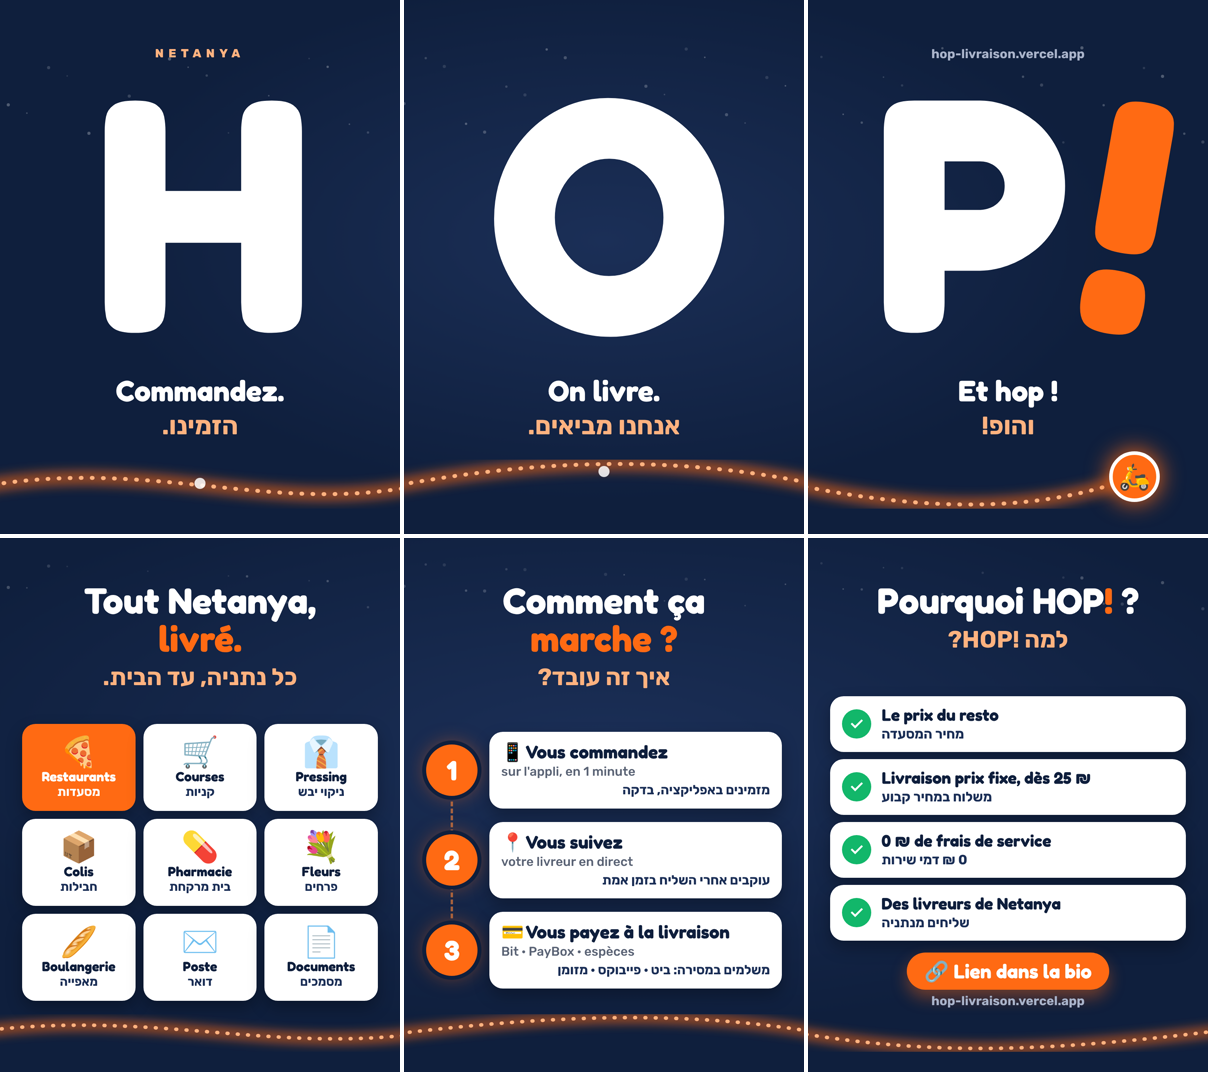
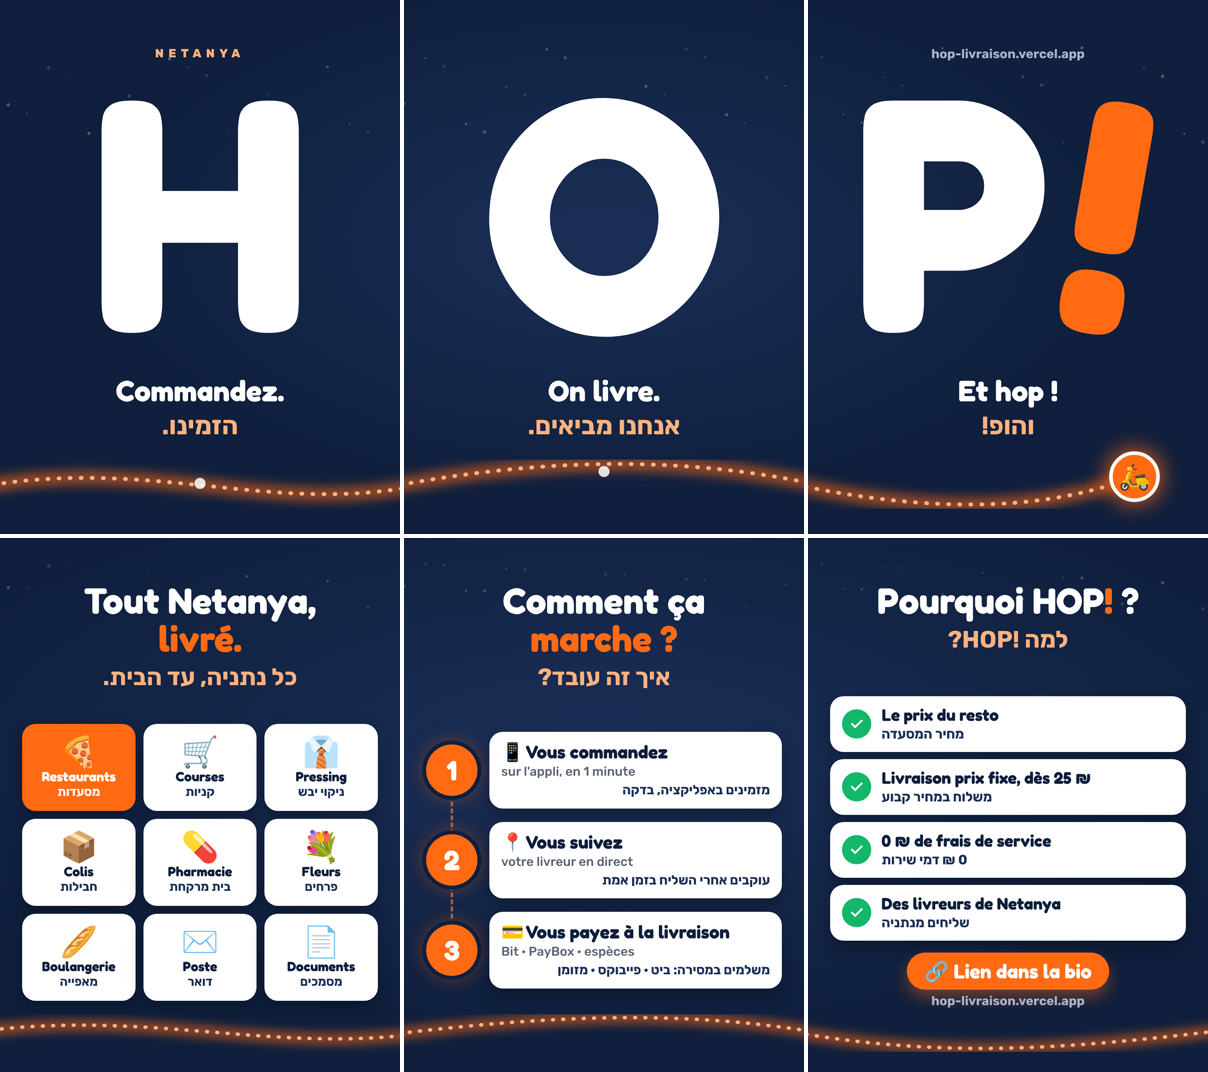
Grille Instagram : H, O et P! exactement centrés dans leur publication
Claude-Session: https://claude.ai/code/session_01HjyNE8jb2CVL8HhFoocmFa

diff --git a/livraison/index.html b/livraison/index.html
@@ -68,7 +68,7 @@
       } catch (e) { /* ignore */ }
     })();
   </script>
-  <link rel="stylesheet" href="styles.css?v=202610312223" />
+  <link rel="stylesheet" href="styles.css?v=202610312225" />
 <style id="splashCss">#splash{position:fixed;inset:0;z-index:99999;display:flex;flex-direction:column;align-items:center;justify-content:center;gap:18px;background:#0F1F3D;color:#fff;transition:opacity .35s ease}#splash.out{opacity:0;pointer-events:none}#splash svg{width:min(58vw,300px);height:auto;display:block}#splash span{font:700 16px/1 Rubik,-apple-system,Arial,sans-serif;letter-spacing:.42em;margin-inline-start:.42em;opacity:.92}</style>
 </head>
 <body>
@@ -736,16 +736,16 @@
 </div>
 
 <script src="https://cdnjs.cloudflare.com/ajax/libs/leaflet/1.9.4/leaflet.min.js"></script>
-<script src="config.js?v=202610312223"></script>
-<script src="i18n.js?v=202610312223"></script>
-<script src="pricing.js?v=202610312223"></script>
-<script src="store.js?v=202610312223"></script>
-<script src="chat.js?v=202610312223"></script>
-<script src="common.js?v=202610312223"></script>
-<script src="enseignes.js?v=202610312223"></script>
-<script src="places.js?v=202610312223"></script>
-<script src="rayons.js?v=202610312223"></script>
-<script src="client.js?v=202610312223"></script>
+<script src="config.js?v=202610312225"></script>
+<script src="i18n.js?v=202610312225"></script>
+<script src="pricing.js?v=202610312225"></script>
+<script src="store.js?v=202610312225"></script>
+<script src="chat.js?v=202610312225"></script>
+<script src="common.js?v=202610312225"></script>
+<script src="enseignes.js?v=202610312225"></script>
+<script src="places.js?v=202610312225"></script>
+<script src="rayons.js?v=202610312225"></script>
+<script src="client.js?v=202610312225"></script>
 <script>(function(){var s=document.getElementById("splash");if(!s)return;var t0=Date.now();function off(){var w=Math.max(0,650-(Date.now()-t0));setTimeout(function(){s.classList.add("out");setTimeout(function(){s.remove()},400)},w)}if(document.readyState==="complete")off();else addEventListener("load",off);setTimeout(off,3500)})();</script>
 </body>
 </html>

diff --git a/livraison/coursier.html b/livraison/coursier.html
@@ -54,7 +54,7 @@
     })();
   </script>
   <link rel="stylesheet" href="https://cdnjs.cloudflare.com/ajax/libs/leaflet/1.9.4/leaflet.min.css" />
-  <link rel="stylesheet" href="styles.css?v=202610312223" />
+  <link rel="stylesheet" href="styles.css?v=202610312225" />
 <style id="splashCss">#splash{position:fixed;inset:0;z-index:99999;display:flex;flex-direction:column;align-items:center;justify-content:center;gap:18px;background:#0F1F3D;color:#fff;transition:opacity .35s ease}#splash.out{opacity:0;pointer-events:none}#splash svg{width:min(58vw,300px);height:auto;display:block}#splash span{font:700 16px/1 Rubik,-apple-system,Arial,sans-serif;letter-spacing:.42em;margin-inline-start:.42em;opacity:.92}</style>
 </head>
 <body>
@@ -295,14 +295,14 @@
 
 <script src="https://cdnjs.cloudflare.com/ajax/libs/leaflet/1.9.4/leaflet.min.js"></script>
 <script src="https://cdnjs.cloudflare.com/ajax/libs/qrcodejs/1.0.0/qrcode.min.js"></script>
-<script src="config.js?v=202610312223"></script>
-<script src="i18n.js?v=202610312223"></script>
-<script src="pricing.js?v=202610312223"></script>
-<script src="store.js?v=202610312223"></script>
-<script src="chat.js?v=202610312223"></script>
-<script src="common.js?v=202610312223"></script>
-<script src="badge.js?v=202610312223"></script>
-<script src="coursier.js?v=202610312223"></script>
+<script src="config.js?v=202610312225"></script>
+<script src="i18n.js?v=202610312225"></script>
+<script src="pricing.js?v=202610312225"></script>
+<script src="store.js?v=202610312225"></script>
+<script src="chat.js?v=202610312225"></script>
+<script src="common.js?v=202610312225"></script>
+<script src="badge.js?v=202610312225"></script>
+<script src="coursier.js?v=202610312225"></script>
 <script>(function(){var s=document.getElementById("splash");if(!s)return;var t0=Date.now();function off(){var w=Math.max(0,650-(Date.now()-t0));setTimeout(function(){s.classList.add("out");setTimeout(function(){s.remove()},400)},w)}if(document.readyState==="complete")off();else addEventListener("load",off);setTimeout(off,3500)})();</script>
 </body>
 </html>

diff --git a/livraison/admin.html b/livraison/admin.html
@@ -54,7 +54,7 @@
       window.addEventListener("load", function () { if (first) later(); });
     })();
   </script>
-  <link rel="stylesheet" href="styles.css?v=202610312223" />
+  <link rel="stylesheet" href="styles.css?v=202610312225" />
 <style id="splashCss">#splash{position:fixed;inset:0;z-index:99999;display:flex;flex-direction:column;align-items:center;justify-content:center;gap:18px;background:#0F1F3D;color:#fff;transition:opacity .35s ease}#splash.out{opacity:0;pointer-events:none}#splash svg{width:min(58vw,300px);height:auto;display:block}#splash span{font:700 16px/1 Rubik,-apple-system,Arial,sans-serif;letter-spacing:.42em;margin-inline-start:.42em;opacity:.92}</style>
 </head>
 <body>
@@ -184,15 +184,15 @@
 </div>
 
 <script src="https://cdnjs.cloudflare.com/ajax/libs/leaflet/1.9.4/leaflet.min.js"></script>
-<script src="config.js?v=202610312223"></script>
-<script src="i18n.js?v=202610312223"></script>
-<script src="pricing.js?v=202610312223"></script>
-<script src="store.js?v=202610312223"></script>
-<script src="chat.js?v=202610312223"></script>
-<script src="common.js?v=202610312223"></script>
-<script src="places.js?v=202610312223"></script>
-<script src="rayons.js?v=202610312223"></script>
-<script src="admin.js?v=202610312223"></script>
+<script src="config.js?v=202610312225"></script>
+<script src="i18n.js?v=202610312225"></script>
+<script src="pricing.js?v=202610312225"></script>
+<script src="store.js?v=202610312225"></script>
+<script src="chat.js?v=202610312225"></script>
+<script src="common.js?v=202610312225"></script>
+<script src="places.js?v=202610312225"></script>
+<script src="rayons.js?v=202610312225"></script>
+<script src="admin.js?v=202610312225"></script>
 <script>(function(){var s=document.getElementById("splash");if(!s)return;var t0=Date.now();function off(){var w=Math.max(0,650-(Date.now()-t0));setTimeout(function(){s.classList.add("out");setTimeout(function(){s.remove()},400)},w)}if(document.readyState==="complete")off();else addEventListener("load",off);setTimeout(off,3500)})();</script>
 </body>
 </html>

diff --git a/livraison/commerce.html b/livraison/commerce.html
@@ -48,7 +48,7 @@
       window.addEventListener("load", function () { if (first) later(); });
     })();
   </script>
-  <link rel="stylesheet" href="styles.css?v=202610312223" />
+  <link rel="stylesheet" href="styles.css?v=202610312225" />
 </head>
 <body>
 
@@ -165,13 +165,13 @@
 <button type="button" class="wa-fab chat-fab" id="waFab"><span>💬</span><b data-i18n="chatFab"></b><i class="chat-badge hidden" id="fabBadge"></i></button>
 
 <script src="https://cdnjs.cloudflare.com/ajax/libs/qrcodejs/1.0.0/qrcode.min.js"></script>
-<script src="config.js?v=202610312223"></script>
-<script src="i18n.js?v=202610312223"></script>
-<script src="pricing.js?v=202610312223"></script>
-<script src="store.js?v=202610312223"></script>
-<script src="chat.js?v=202610312223"></script>
-<script src="common.js?v=202610312223"></script>
-<script src="places.js?v=202610312223"></script>
-<script src="commerce.js?v=202610312223"></script>
+<script src="config.js?v=202610312225"></script>
+<script src="i18n.js?v=202610312225"></script>
+<script src="pricing.js?v=202610312225"></script>
+<script src="store.js?v=202610312225"></script>
+<script src="chat.js?v=202610312225"></script>
+<script src="common.js?v=202610312225"></script>
+<script src="places.js?v=202610312225"></script>
+<script src="commerce.js?v=202610312225"></script>
 </body>
 </html>

diff --git a/livraison/bienvenue.html b/livraison/bienvenue.html
@@ -15,7 +15,7 @@
   <link rel="preconnect" href="https://fonts.googleapis.com" />
   <link rel="preconnect" href="https://fonts.gstatic.com" crossorigin />
   <link href="https://fonts.googleapis.com/css2?family=Fredoka:wght@500;600;700&family=Rubik:wght@400;500;600;700;800&display=swap" rel="stylesheet" />
-  <link rel="stylesheet" href="styles.css?v=202610312223" />
+  <link rel="stylesheet" href="styles.css?v=202610312225" />
 </head>
 <body class="bv">
 <!-- Page envoyée à chaque nouveau client après sa première livraison (souvent envoyé par un commerce, il ne connaît pas encore HOP!) -->
@@ -47,11 +47,11 @@
 
 <div class="ol-bar"><a class="btn btn-primary btn-lg" href="index.html" id="bvGo"></a></div>
 
-<script src="config.js?v=202610312223"></script>
-<script src="i18n.js?v=202610312223"></script>
-<script src="pricing.js?v=202610312223"></script>
-<script src="store.js?v=202610312223"></script>
-<script src="common.js?v=202610312223"></script>
+<script src="config.js?v=202610312225"></script>
+<script src="i18n.js?v=202610312225"></script>
+<script src="pricing.js?v=202610312225"></script>
+<script src="store.js?v=202610312225"></script>
+<script src="common.js?v=202610312225"></script>
 <script>
 (function () {
   "use strict";

diff --git a/livraison/badge.html b/livraison/badge.html
@@ -10,7 +10,7 @@
   <link rel="preconnect" href="https://fonts.googleapis.com" />
   <link rel="preconnect" href="https://fonts.gstatic.com" crossorigin />
   <link href="https://fonts.googleapis.com/css2?family=Fredoka:wght@500;600;700&family=Rubik:wght@400;500;600;700;800&display=swap" rel="stylesheet" />
-  <link rel="stylesheet" href="styles.css?v=202610312223" />
+  <link rel="stylesheet" href="styles.css?v=202610312225" />
   <style>
     body { background: #0F1F3D; color: #fff; min-height: 100vh; font-family: Rubik, sans-serif; }
     .bd-page { max-width: 460px; margin: 0 auto; padding: 32px 16px; text-align: center; }
@@ -26,7 +26,7 @@
     <p>Chaque livreur débloque un badge à 1, 10, 25, 50, 100, 250, 500 et 1 000 courses livrées. Il s'affiche une fois dans l'appli HOP! Livreur, puis reste dans « Statistiques ». Touchez une médaille pour la voir.</p>
     <div class="bdg-row" id="row"></div>
   </main>
-  <script src="badge.js?v=202610312223"></script>
+  <script src="badge.js?v=202610312225"></script>
   <script>
     const row = document.getElementById("row");
     row.innerHTML = Badge.MILESTONES.map(m => `<button type="button" data-n="${m.n}">${Badge.medal(m.n)}<span>${m.tier}</span></button>`).join("");

diff --git a/livraison/on-livre.html b/livraison/on-livre.html
@@ -13,7 +13,7 @@
   <link rel="preconnect" href="https://fonts.googleapis.com" />
   <link rel="preconnect" href="https://fonts.gstatic.com" crossorigin />
   <link href="https://fonts.googleapis.com/css2?family=Fredoka:wght@500;600;700&family=Rubik:wght@400;500;600;700;800&display=swap" rel="stylesheet" />
-  <link rel="stylesheet" href="styles.css?v=202610312223" />
+  <link rel="stylesheet" href="styles.css?v=202610312225" />
 </head>
 <body class="onlivre">
 <!-- Page d'arrivée des flyers et des QR codes : on explique d'abord ce qu'on livre, puis on ouvre l'appli sur la bonne catégorie -->
@@ -38,10 +38,10 @@
 
 <div class="ol-bar"><a class="btn btn-primary btn-lg" href="index.html" id="olGo"></a></div>
 
-<script src="config.js?v=202610312223"></script>
-<script src="i18n.js?v=202610312223"></script>
-<script src="pricing.js?v=202610312223"></script>
-<script src="common.js?v=202610312223"></script>
+<script src="config.js?v=202610312225"></script>
+<script src="i18n.js?v=202610312225"></script>
+<script src="pricing.js?v=202610312225"></script>
+<script src="common.js?v=202610312225"></script>
 <script>
 (function () {
   "use strict";

diff --git a/livraison/suivi.html b/livraison/suivi.html
@@ -45,7 +45,7 @@
       window.addEventListener("load", function () { if (first) later(); });
     })();
   </script>
-  <link rel="stylesheet" href="styles.css?v=202610312223" />
+  <link rel="stylesheet" href="styles.css?v=202610312225" />
 </head>
 <body class="trk-v2">
 
@@ -130,12 +130,12 @@
 </div>
 
 <script src="https://cdnjs.cloudflare.com/ajax/libs/leaflet/1.9.4/leaflet.min.js"></script>
-<script src="config.js?v=202610312223"></script>
-<script src="i18n.js?v=202610312223"></script>
-<script src="pricing.js?v=202610312223"></script>
-<script src="store.js?v=202610312223"></script>
-  <script src="chat.js?v=202610312223"></script>
-<script src="common.js?v=202610312223"></script>
-<script src="suivi.js?v=202610312223"></script>
+<script src="config.js?v=202610312225"></script>
+<script src="i18n.js?v=202610312225"></script>
+<script src="pricing.js?v=202610312225"></script>
+<script src="store.js?v=202610312225"></script>
+  <script src="chat.js?v=202610312225"></script>
+<script src="common.js?v=202610312225"></script>
+<script src="suivi.js?v=202610312225"></script>
 </body>
 </html>

diff --git a/livraison/kit.html b/livraison/kit.html
@@ -12,7 +12,7 @@
   <link rel="preconnect" href="https://fonts.googleapis.com" />
   <link rel="preconnect" href="https://fonts.gstatic.com" crossorigin />
   <link href="https://fonts.googleapis.com/css2?family=Fredoka:wght@500;600;700&family=Rubik:wght@400;500;600;700;800&display=swap" rel="stylesheet" />
-  <link rel="stylesheet" href="styles.css?v=202610312223" />
+  <link rel="stylesheet" href="styles.css?v=202610312225" />
 </head>
 <body class="kit-page">
 
@@ -176,10 +176,10 @@
 </div>
 
 <script src="https://cdnjs.cloudflare.com/ajax/libs/qrcodejs/1.0.0/qrcode.min.js"></script>
-<script src="config.js?v=202610312223"></script>
-<script src="i18n.js?v=202610312223"></script>
-<script src="pricing.js?v=202610312223"></script>
-<script src="common.js?v=202610312223"></script>
-<script src="kit.js?v=202610312223"></script>
+<script src="config.js?v=202610312225"></script>
+<script src="i18n.js?v=202610312225"></script>
+<script src="pricing.js?v=202610312225"></script>
+<script src="common.js?v=202610312225"></script>
+<script src="kit.js?v=202610312225"></script>
 </body>
 </html>

diff --git a/livraison/recu.html b/livraison/recu.html
@@ -43,7 +43,7 @@
       window.addEventListener("load", function () { if (first) later(); });
     })();
   </script>
-  <link rel="stylesheet" href="styles.css?v=202610312223" />
+  <link rel="stylesheet" href="styles.css?v=202610312225" />
 </head>
 <body class="receipt-page">
   <main class="wrap narrow" style="padding:20px 16px 40px">
@@ -53,11 +53,11 @@
       <a class="btn" href="index.html#mes-courses">← Retour · חזרה</a>
     </div>
   </main>
-  <script src="config.js?v=202610312223"></script>
-  <script src="i18n.js?v=202610312223"></script>
-  <script src="pricing.js?v=202610312223"></script>
-  <script src="store.js?v=202610312223"></script>
-  <script src="common.js?v=202610312223"></script>
-  <script src="recu.js?v=202610312223"></script>
+  <script src="config.js?v=202610312225"></script>
+  <script src="i18n.js?v=202610312225"></script>
+  <script src="pricing.js?v=202610312225"></script>
+  <script src="store.js?v=202610312225"></script>
+  <script src="common.js?v=202610312225"></script>
+  <script src="recu.js?v=202610312225"></script>
 </body>
 </html>

diff --git a/video/src/Grid.tsx b/video/src/Grid.tsx
@@ -11,7 +11,9 @@ const TARGET = [540, 1620, 2700];                 // centre de chaque tuile
 const PGROUP = 1770;                              // centre du groupe « P! » dans le dessin du logo
 const WORDS = [['Commandez.', 'הזמינו.'], ['On livre.', 'אנחנו מביאים.'], ['Et hop !', 'והופ!']];
 export const Grid: React.FC<{ tile: number }> = ({ tile }) => {
-  const dx = (i: number) => (i < 2 ? TARGET[i] / S - CX[i] : TARGET[2] / S - PGROUP);
+  // Correction mesurée sur l'image (centre réel du dessin de chaque lettre) : chaque lettre pile au centre de sa publication
+  const CORR = [-8, -12.5, -52];
+  const dx = (i: number) => (i < 2 ? TARGET[i] / S - CX[i] + CORR[i] / S : TARGET[2] / S - PGROUP + CORR[2] / S);
   return (
     <AbsoluteFill style={{ background: C.navy, overflow: 'hidden' }}>
       <div style={{ position: 'absolute', left: -tile * 1080, top: 0, width: 3240, height: 1350 }}>

diff --git a/livraison/autocollant.html b/livraison/autocollant.html
@@ -89,7 +89,7 @@
 </div></div>
 
 <script src="https://cdnjs.cloudflare.com/ajax/libs/qrcodejs/1.0.0/qrcode.min.js"></script>
-<script src="config.js?v=202610312223"></script>
+<script src="config.js?v=202610312225"></script>
 <script>
 (function () {
   "use strict";
